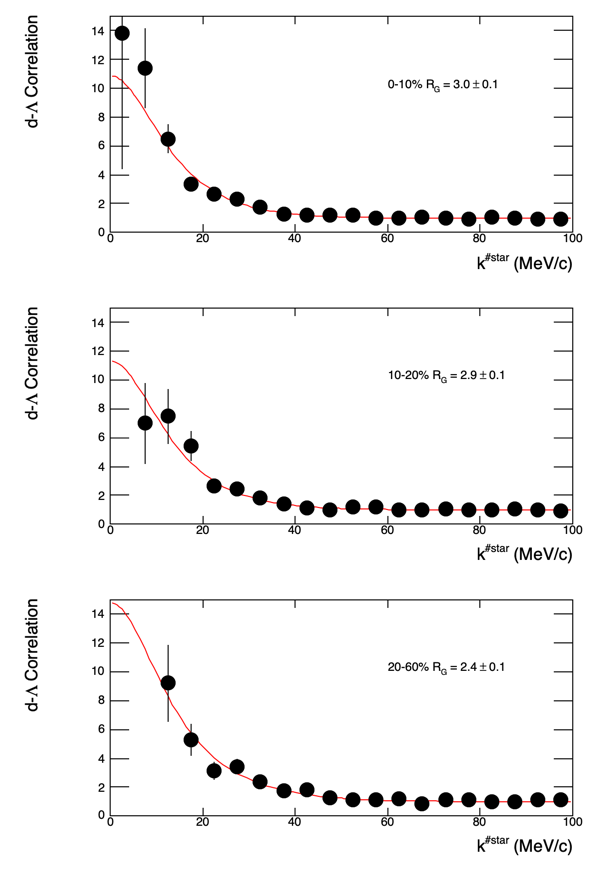
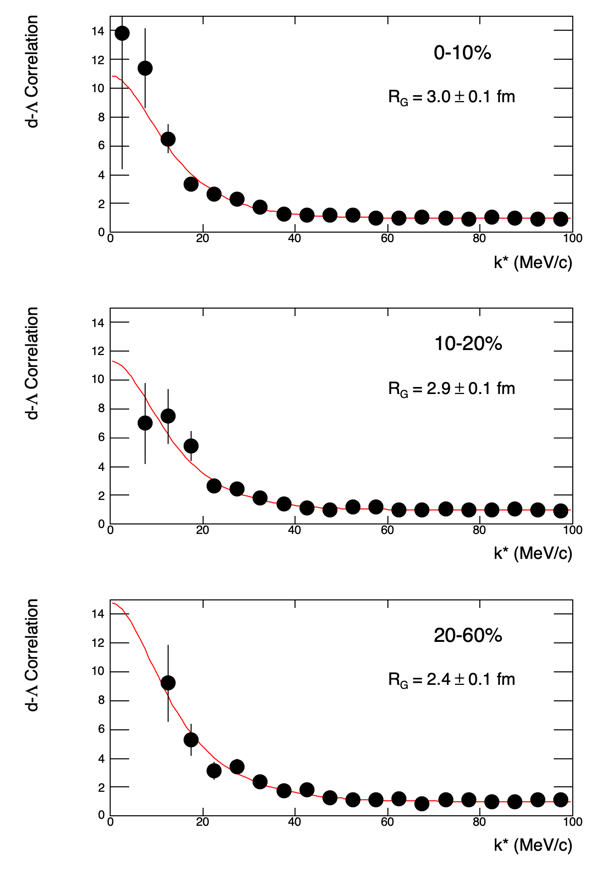
quick update for plotting

diff --git a/Hypernuclei/dLambda/Ckstar.C b/Hypernuclei/dLambda/Ckstar.C
@@ -143,7 +143,7 @@ void Ckstar()
   
   //  double var[NPar] = {2.8, 2.6, 2.5, -16., 2.3, 10., 3.6};
   double var[NPar] = {2.8, 2.6, 2.5, -16., 2.3, 10., 3.6};
-  double verr[NPar] = {0.1, 0.1, 0.1, 0.1, 0.1, 0.1, 0.1};
+  double verr[NPar] = {0.1, 0.1, 0.1, 0.1, 0.1, 0.1, 0.01};
   double var_min[NPar] = {2.0, 2.0, 2.0, -100., 2.3, 0., 3.6};
   double var_max[NPar] = {4.0, 4.0, 4.0, -0., 2.3, 20., 3.6};
   
@@ -195,7 +195,7 @@ void Ckstar()
     TH1D *hist = new TH1D("hist","",1,0,100);
     hist->SetMinimum(0.);
     hist->SetMaximum(15.);
-    hist->GetXaxis()->SetTitle("k^{*} (MeV/c)");
+    hist->GetXaxis()->SetTitle("k* (MeV/c)");
     hist->GetYaxis()->SetTitle("d-#Lambda Correlation");
     hist->Draw();
     
@@ -211,28 +211,12 @@ void Ckstar()
     //    gr_data[ip]->SetMarkerStyle(20);
     gr_data[ip]->Draw("p");
 
-    drawText(60, 10, Form("%s R_{G} = %3.1f #pm %3.1f", LabelName[ip], var[ip], verr[ip]), 0.08);
+    drawText(70, 12, LabelName[ip], 42, 0.08);
+    drawText(60, 9, Form("R_{G} = %3.1f #pm %3.1f fm", var[ip], verr[ip]), 42, 0.07);
   }
 
   c1->Update();
   c1->SaveAs("CF_dl.pdf");
   c1->SaveAs("CF_dl.png");
-  /*
-  double rr, rrerr;
-  double xpp, xpperr;
-  double xpl, xplerr;
-  double xll, xllerr;
-  double f0fit,f0fiterr;
-  double d0fit, d0fiterr;
-  
-  gMinuit->GetParameter(0,rr,rrerr);
-  cout<<"R="<<rr<<"\u00b1"<<rrerr<<endl;
-  cout<<""<<endl;
-  gMinuit->GetParameter(4,f0fit,f0fiterr);
-  cout<<"f0="<<f0fit<<"\u00b1"<<f0fiterr<<endl;
-  cout<<""<<endl;
-  gMinuit->GetParameter(5,d0fit,d0fiterr);
-  cout<<"d0="<<d0fit<<"\u00b1"<<d0fiterr<<endl;
-  */
   
 }
